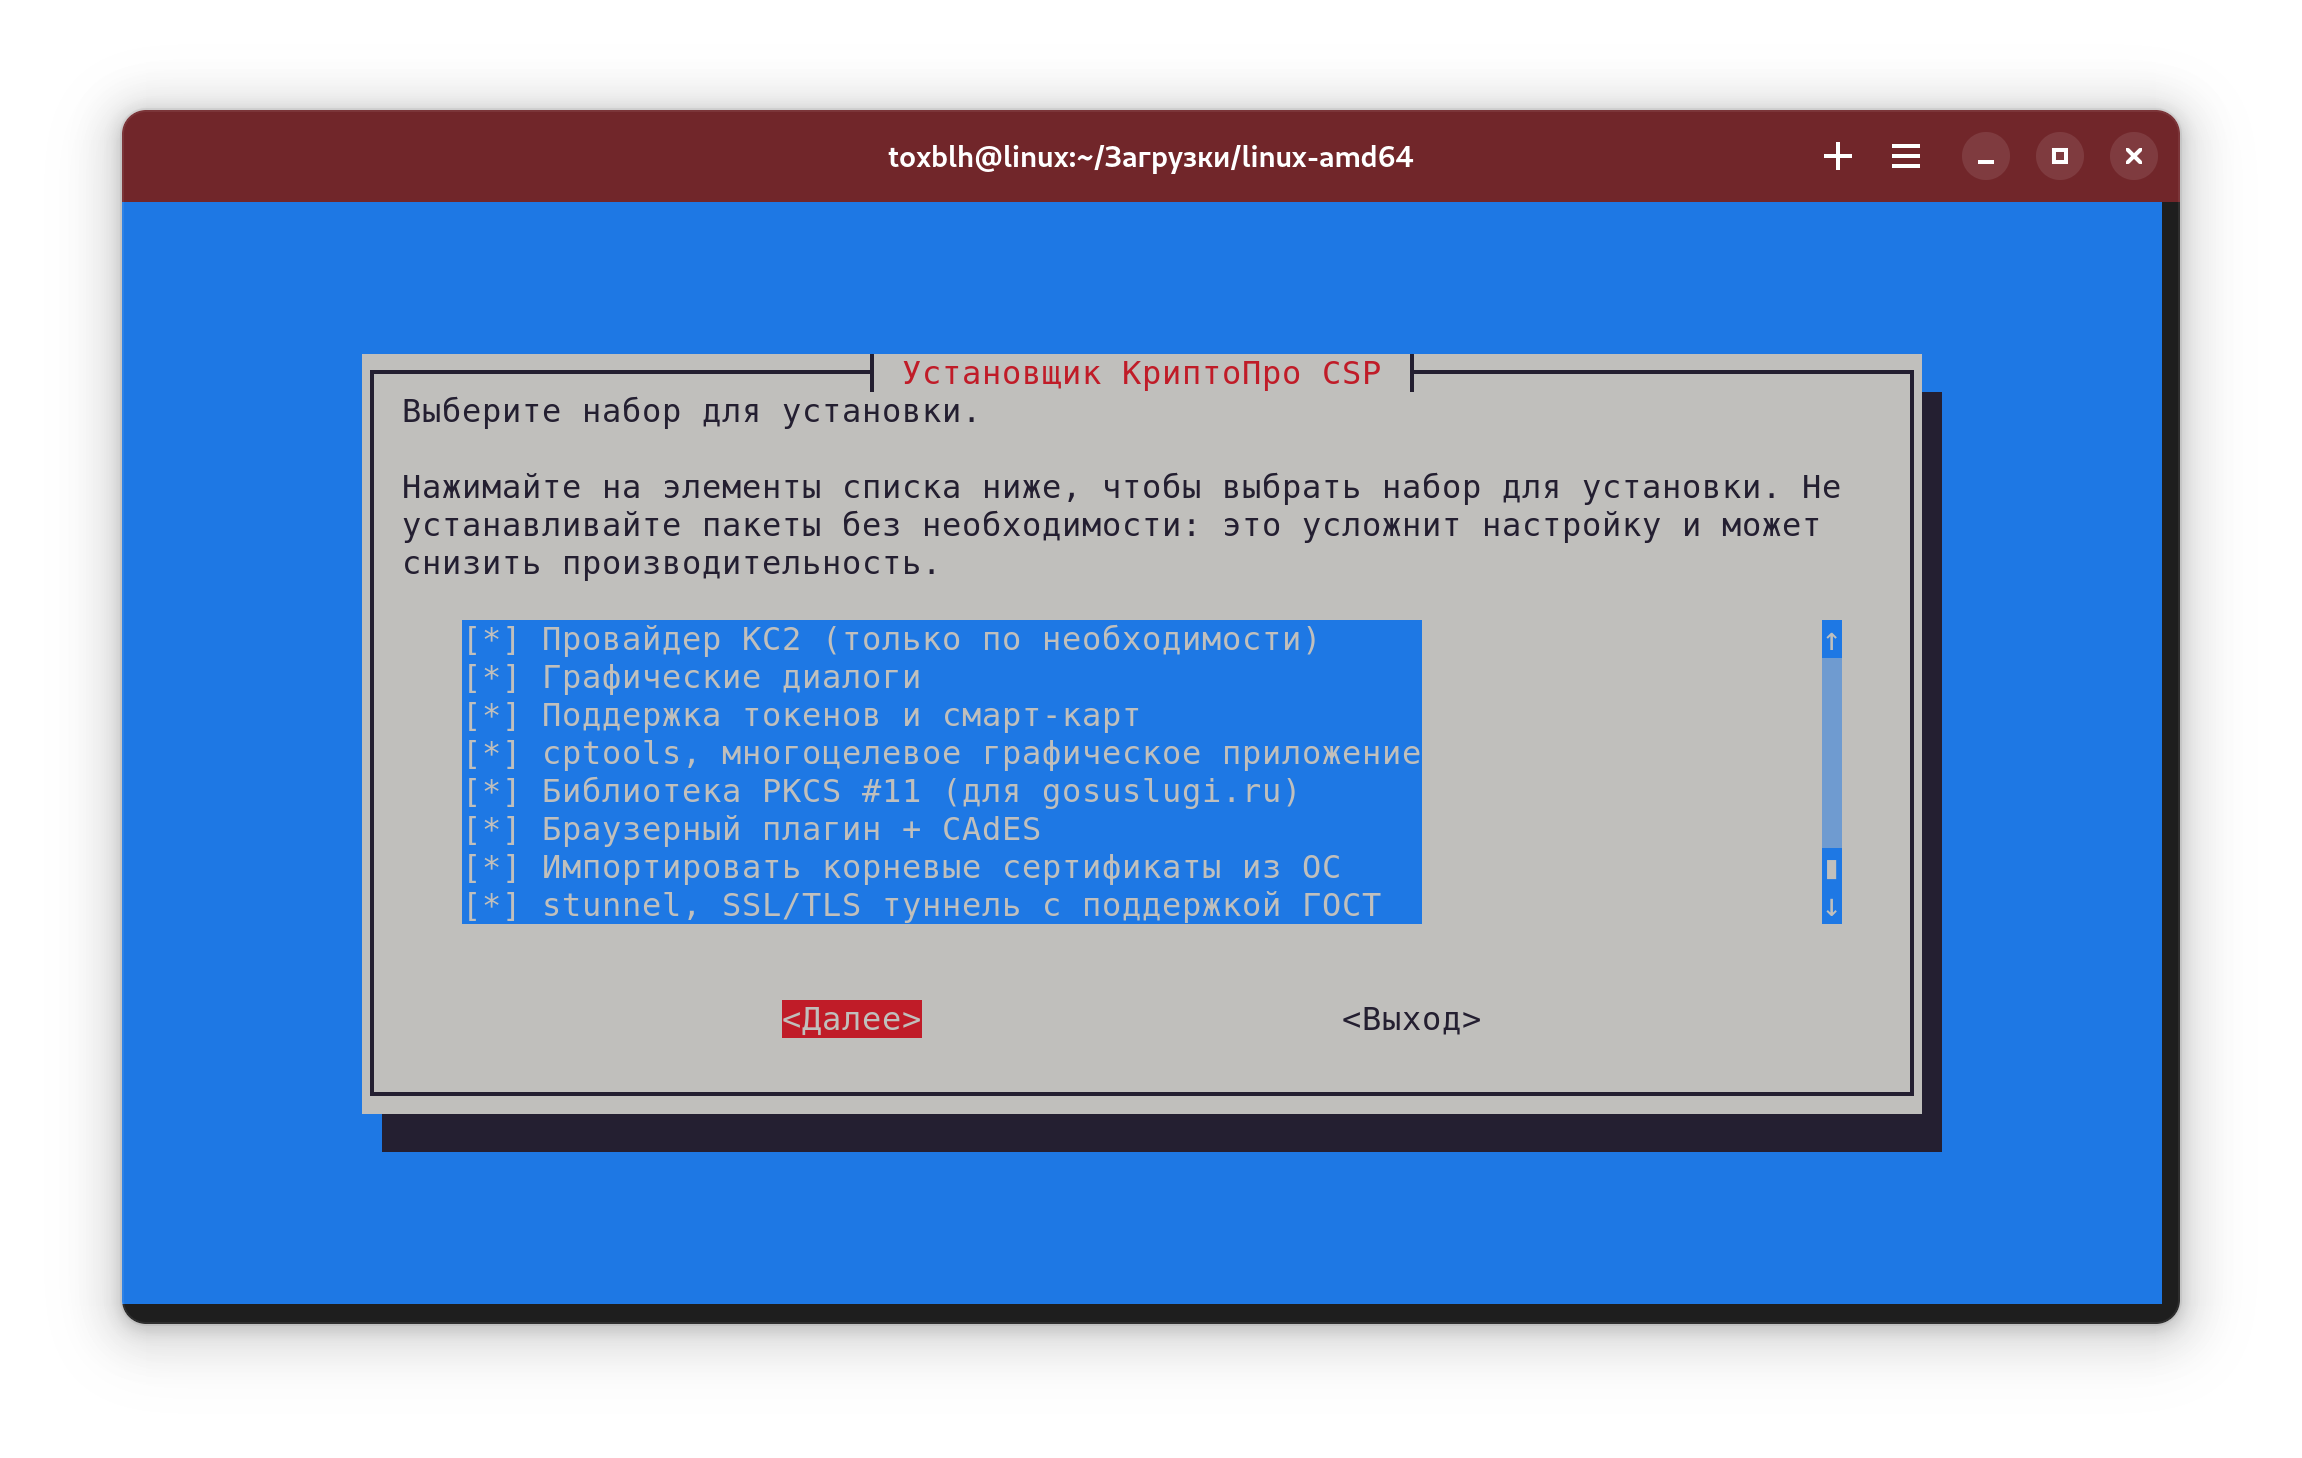
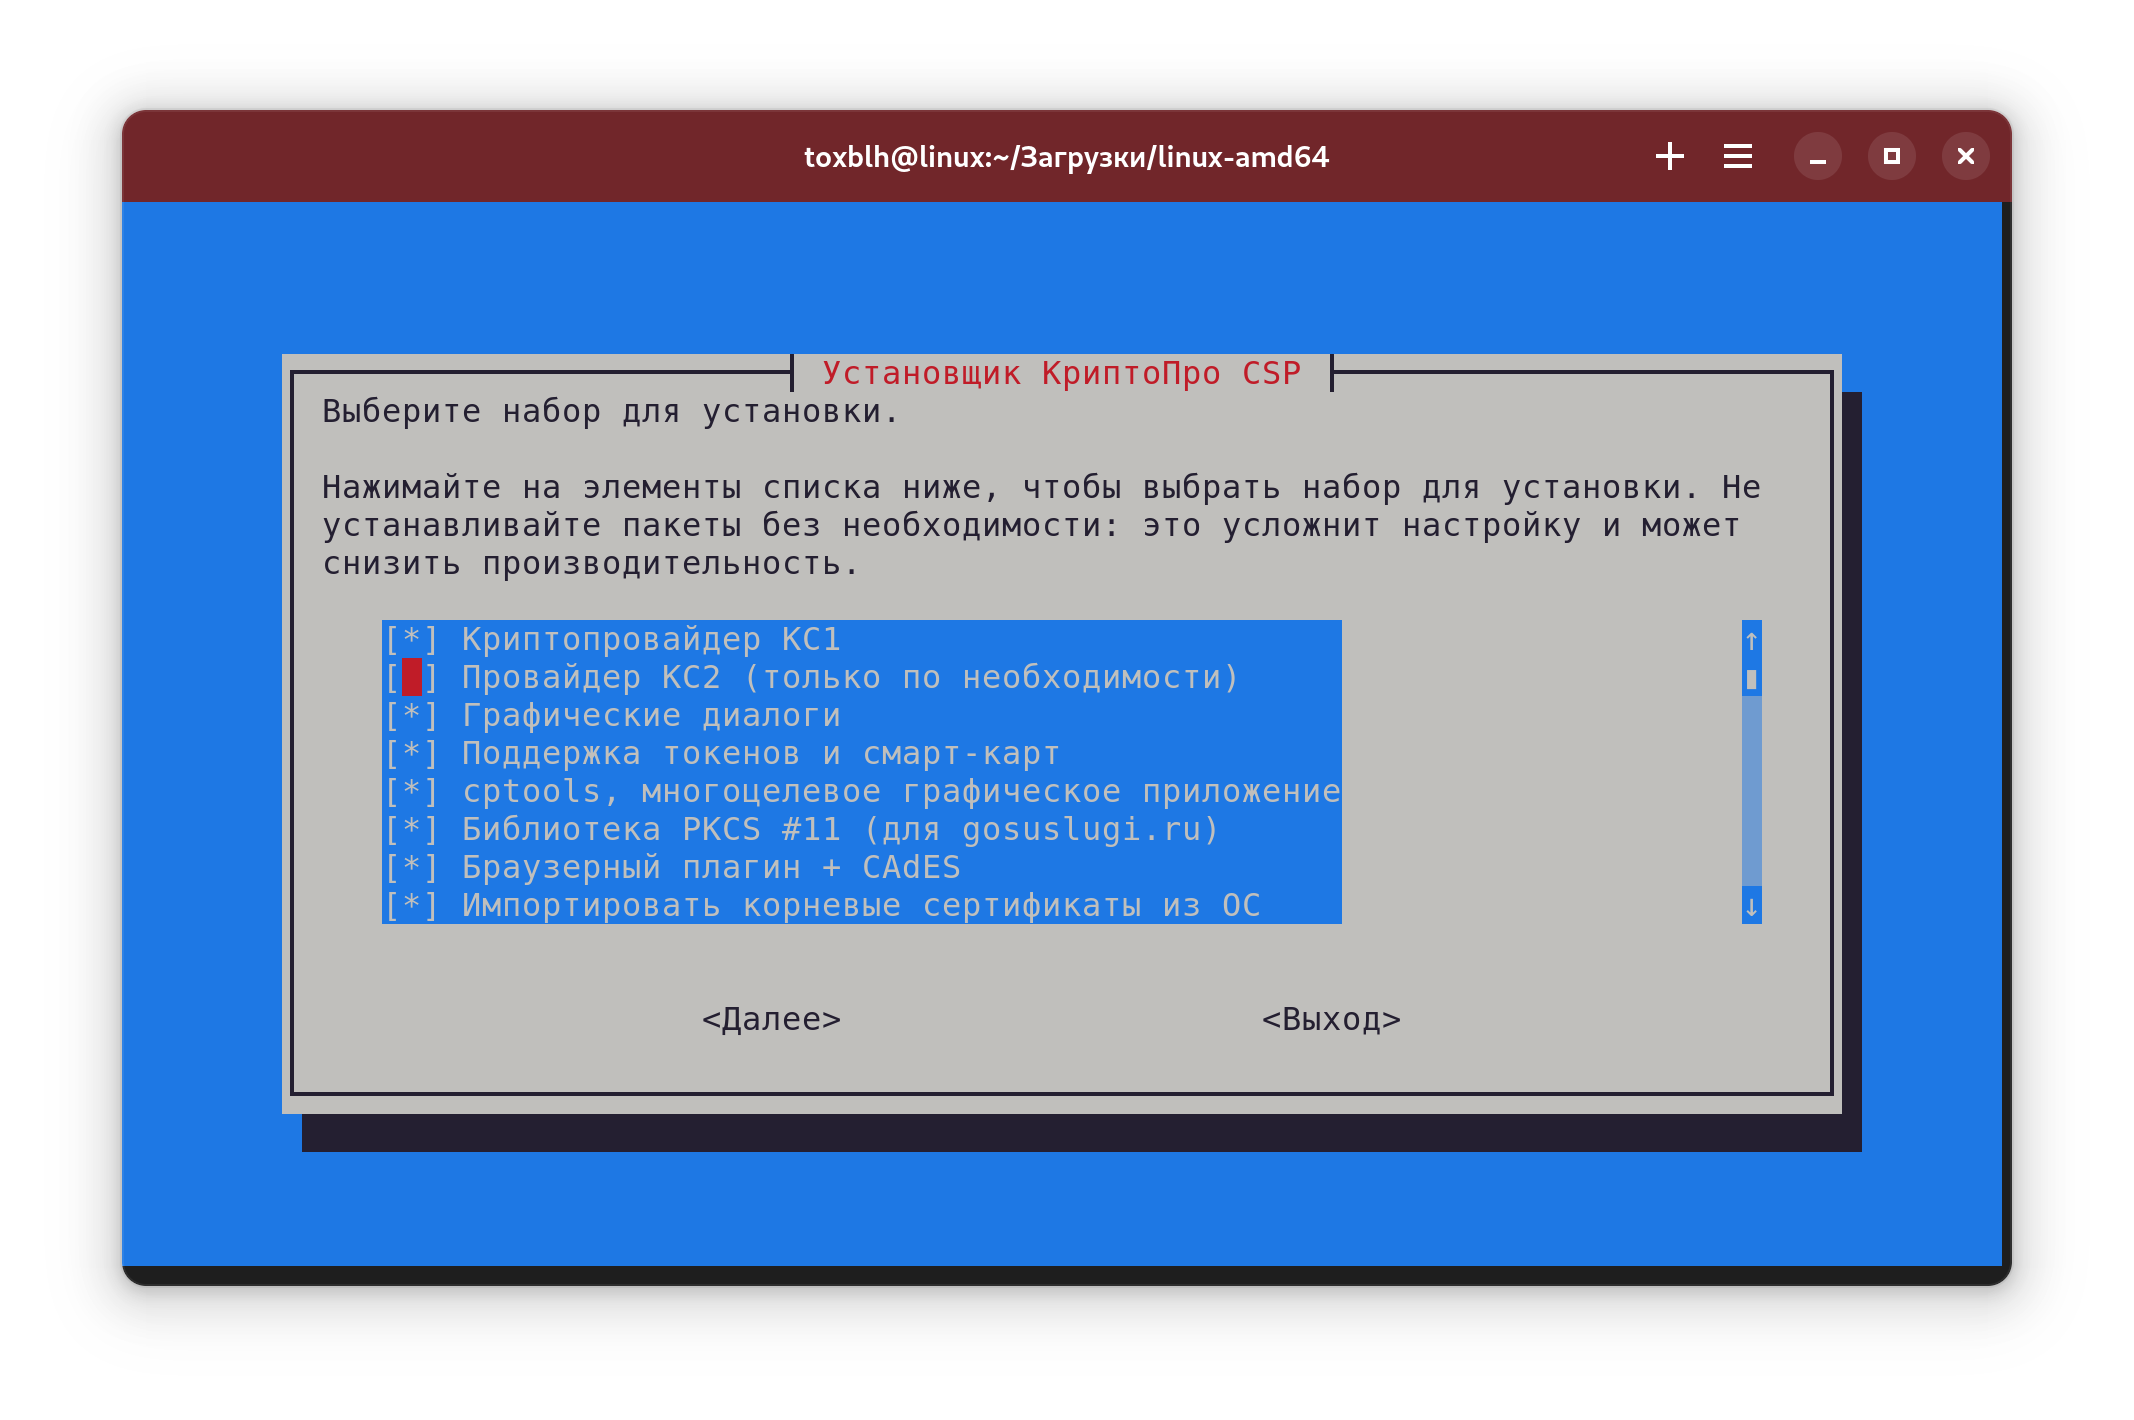
КриптоПро: исправляения ошибок

Changed region(s): [[0.1237, 0.2169, 0.8969, 0.8366], [0.0309, 0.062, 0.9588, 0.8986]]

diff --git a/docs/cryptopro.md b/docs/cryptopro.md
@@ -21,10 +21,10 @@ sudo apt-get update
 sudo ./install_gui.sh
 ```
 
-5. Откроется установщик, нажмите на кнопку `<Далее>`. Перещаться между блоками можно с помощью кнопки [Tab], стрелочками внутри блоков на клавиатуре [←], [→], [↑], [↓], для подтверждения используйте [Пробел] или [Enter].
-![Установщик, привественный экран](./public/cryptopro/crypto-install-1.png)
+5. Откроется установщик, нажмите на кнопку `<Далее>`. Перемещаться между блоками можно с помощью кнопки [Tab], стрелочками внутри блоков на клавиатуре [←], [→], [↑], [↓], для подтверждения используйте [Пробел] или [Enter].
+![Установщик, приветственный экран](./public/cryptopro/crypto-install-1.png)
 
-6. Выберите все пакеты для установки. Для выбора используйте пробел, для подтверждения [Enter] или `<Далее>`
+6. Выберите все пакеты для установки, кроме Провайдер КС2. Для выбора используйте пробел, для подтверждения [Enter] или `<Далее>`
 ![Установщик, меню выбора компонентов для установки](./public/cryptopro/crypto-install-2.png)
 
 7. Начните установку выбрав `<Установить>`
@@ -49,7 +49,7 @@ sudo ./install_gui.sh
 1. Установить расширение для браузера [Google Chrome/Chromium/Chromium GOST/Спутник/Яндекс.Браузер/Opera](https://chrome.google.com/webstore/detail/ifcplugin-extension/pbefkdcndngodfeigfdgiodgnmbgcfha) или [Mozilla Firefox](https://ds-plugin.gosuslugi.ru/plugin/upload/assets/distrib/addon-1.2.8-fx.xpi)
 
 2. Проверьте, что расширение включено в бразуре, на сайте [Госуслуг](https://www.gosuslugi.ru/) расширение должно быть цветным и включенным, если нет, проверьте настройки расширений 
-![Цветное расширение в меню расширений следующий после строчки адреса сайта обычно, для проверки работы: находять на сайте госуслуг, нажмите ПКМ на Расширение для плагина Госуслуг, второй пункт сверху в меню должен быть - расширение может получать доступ к данным сайта и изменять их](./public/cryptopro/ext-is-on.png)
+![Цветное расширение в меню расширений следующий после строчки адреса сайта обычно, для проверки работы: находяcь на сайте госуслуг, нажмите ПКМ на Расширение для плагина Госуслуг, второй пункт сверху в меню должен быть - расширение может получать доступ к данным сайта и изменять их](./public/cryptopro/ext-is-on.png)
 
 3. Установите плагин для работы с порталом государственных услуг [IFCPlugin.rpm](https://ds-plugin.gosuslugi.ru/plugin/upload/assets/distrib/IFCPlugin-x86_64.rpm) ([Источник: п.2 установки, x64-rpm](https://support.cryptopro.ru/index.php?/Knowledgebase/Article/View/275))
 
@@ -64,7 +64,7 @@ sudo cp ~/ifcx86.cfg /etc/ifc.cfg
     - нажать на ссылку Войти с электронной подписью,
     - нажать на кнопку Готово,
     - выбрать нужный сертификат электронной подписи,
-    - в окне Ввод пин-кода ввести любое значение (оно на даннном этапе не проверяется) и нажать кнопку Продолжить,
+    - в окне Ввод пин-кода ввести любое значение (оно на данном этапе не проверяется) и нажать кнопку Продолжить,
     - при возникновении окна КриптоПро CSP ввести пин-код для ключевого контейнера в поле Пароль: и нажать кнопку OK.
 
 
